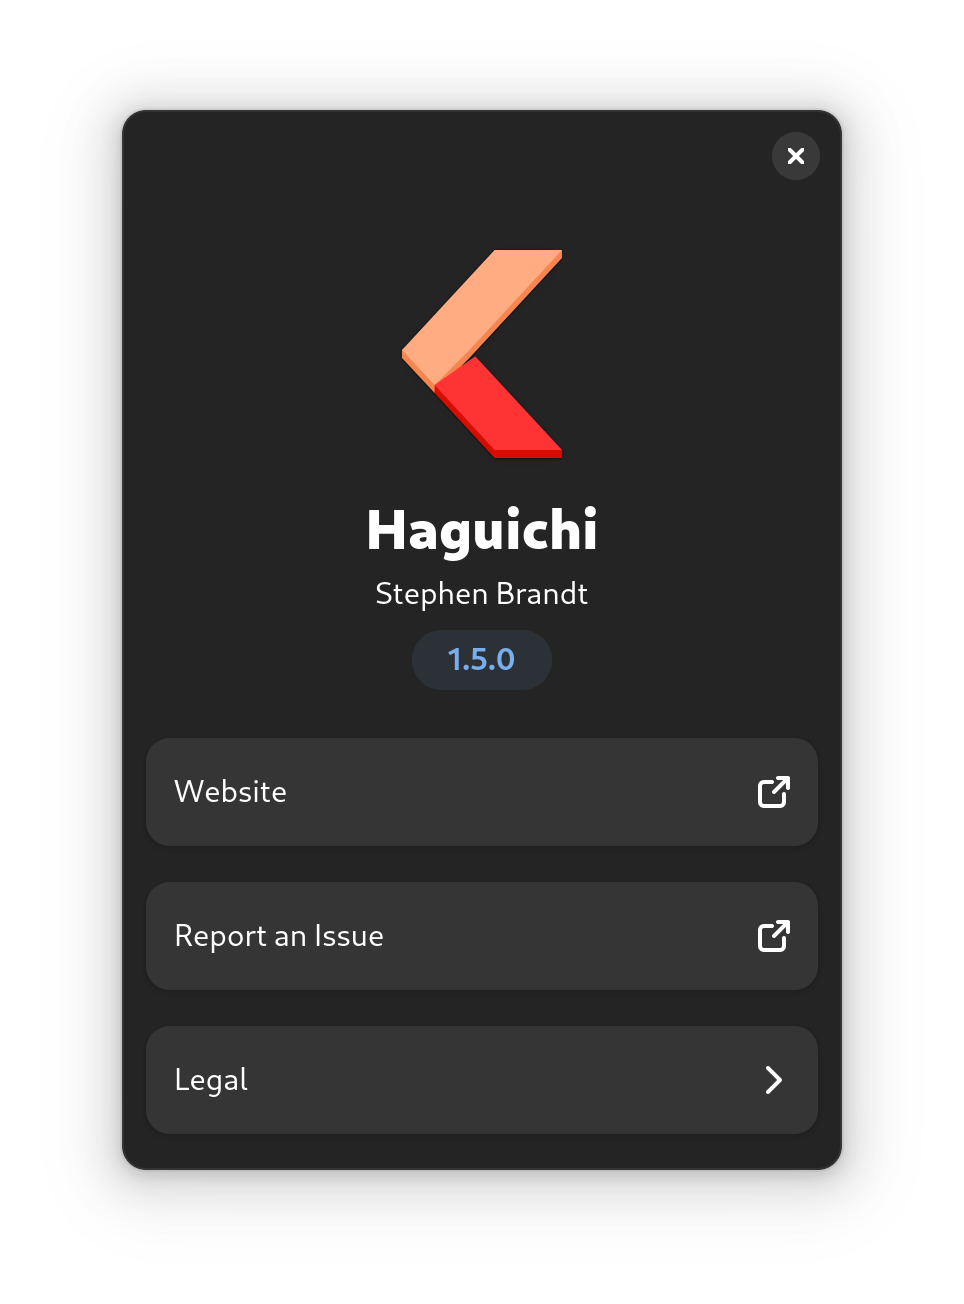
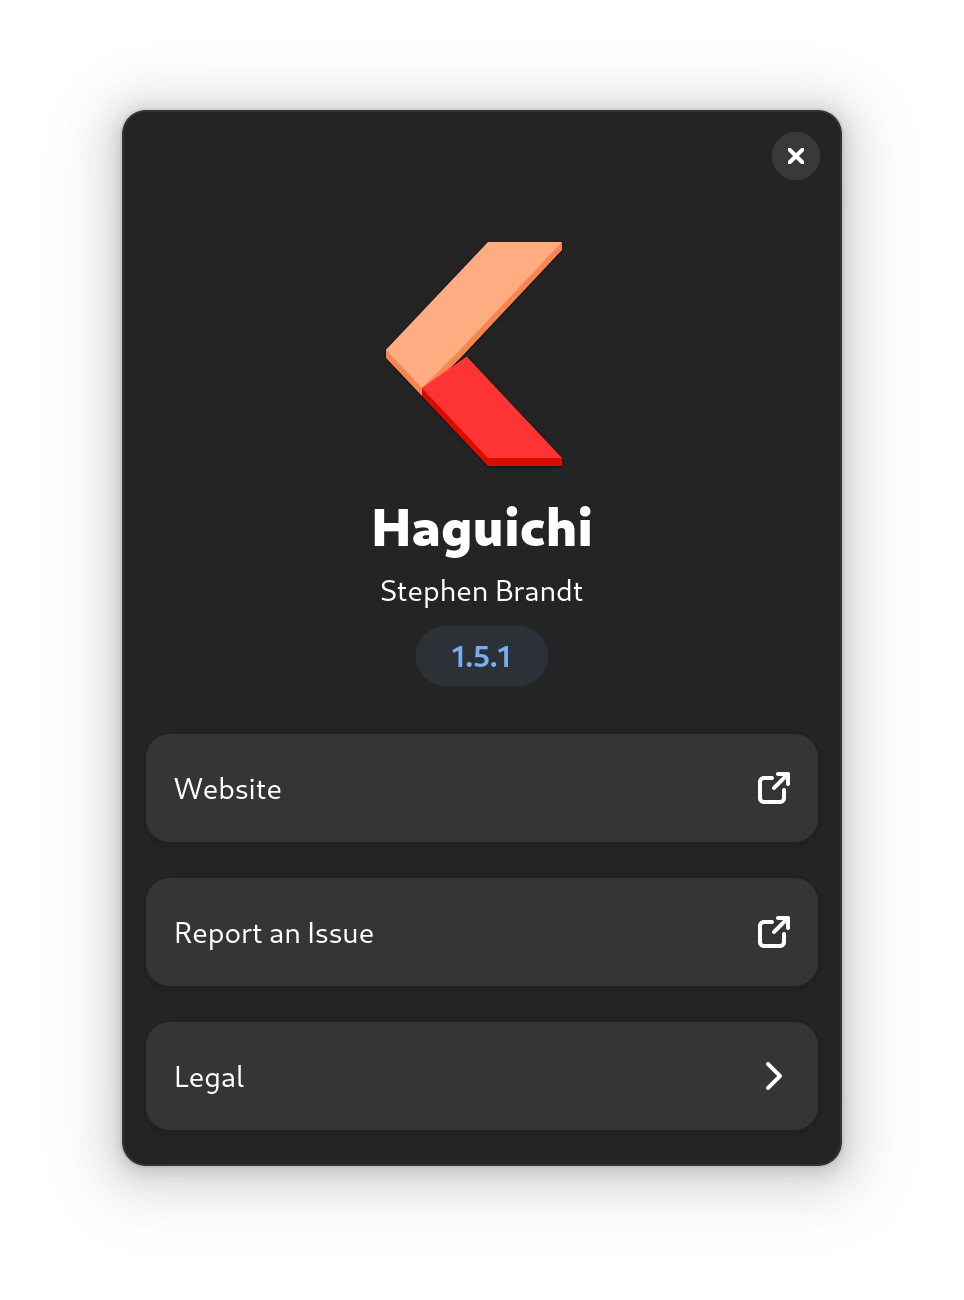
Add release 1.5.1

diff --git a/_posts/2024-12-01-release151.md b/_posts/2024-12-01-release151.md
@@ -1,0 +1,20 @@
+---
+title: Haguichi 1.5.1 Released
+date: 2024-12-01T14:00:00+0100
+author: ztefn
+layout: post
+permalink: /news/release151/
+tags: ['15', bugfix, commands, porting, release, translation]
+---
+Haguichi 1.5.1 has put on its bow tie and is ready to celebrate the holiday season:
+
+* Modernized layout for all input dialogs.
+* Now using <a href="https://gnome.pages.gitlab.gnome.org/libadwaita/doc/main/class.Dialog.html" target="_blank">Adw.Dialog</a> as base for all dialogs when libadwaita 1.6 is available.
+* Now using <a href="https://gnome.pages.gitlab.gnome.org/libadwaita/doc/main/class.Spinner.html" target="_blank">Adw.Spinner</a> instead of <a href="https://docs.gtk.org/gtk4/class.Spinner.html" target="_blank">Gtk.Spinner</a> when libadwaita 1.6 is available.
+* Fixed showing commands menu button if there is only one item present.
+* Added support for <a href="https://devsuite.app/ptyxis/" target="_blank">Ptyxis</a>.
+* Added Finnish translation (thanks to Jiri Grönroos).
+* Updated Indonesian and Russian translation.
+* Other minor fixes and improvements.
+
+{% include slider.html align="center" width="562" height="473" image1_src="/resources/150-edit-command-dialog.png" image1_srcset="/resources/150-edit-command-dialog-2x.png 2x" image1_alt="Edit Command Dialog (Old Layout)" image2_src="/resources/151-edit-command-dialog.png" image2_srcset="/resources/151-edit-command-dialog-2x.png 2x" image2_alt="Edit Command Dialog (New Layout)" caption="Old and new layout for input dialogs." %}

diff --git a/_sections/haguichi.md b/_sections/haguichi.md
@@ -7,7 +7,7 @@ order: 1
 <p>Haguichi is free and open source software licensed under <a href="https://www.gnu.org/licenses/gpl-3.0.html" target="_blank">GPLv3</a>. Written in <a href="https://vala.dev" target="_blank">Vala</a> and using <a href="https://www.gtk.org" target="_blank">GTK</a> as widget toolkit, Haguichi provides a user friendly <abbr title="Graphical user interface">GUI</abbr> to control the <a href="https://vpn.net" target="_blank">Hamachi</a> client on Linux.</p>
 <div class="row">
   <div class="col"><a class="button" href="/download/">Download now</a></div>
-  <div class="col"><a href="/news/release150/">Version 1.5.0 release notes</a></div>
+  <div class="col"><a href="/news/release151/">Version 1.5.1 release notes</a></div>
 </div>
 <div>
   <img src="/resources/teaser.png" srcset="/resources/teaser-2x.png 2x" alt="Main Window" class="aligncenter" width="680" height="240" />

diff --git a/_sections/customizable-commands.md b/_sections/customizable-commands.md
@@ -8,5 +8,5 @@ order: 3
     <p>Haguichi allows you to create your own specialized commands to run on your network peers.</p>
     <p><a class="button" href="/tips-and-tricks/#command-variables">View all variables</a></p>
   </div>
-  <div class="col image"><img src="/resources/edit-command-dialog.png" srcset="/resources/edit-command-dialog-2x.png 2x" alt="Edit Command Dialog" width="562" height="414" /></div>
+  <div class="col image"><img src="/resources/edit-command-dialog.png" srcset="/resources/edit-command-dialog-2x.png 2x" alt="Edit Command Dialog" width="562" height="473" /></div>
 </div>

diff --git a/_downloads/source-tarball.md b/_downloads/source-tarball.md
@@ -2,4 +2,4 @@
 title: Source Tarball
 order: 9
 ---
-To build Haguichi from source download the <a href="https://launchpad.net/haguichi/1.5/1.5.0/+download/haguichi-1.5.0.tar.xz" target="_blank">source tarball</a> and extract it. Open the text file named <b>INSTALL.md</b> and follow the instructions within.
+To build Haguichi from source download the <a href="https://launchpad.net/haguichi/1.5/1.5.1/+download/haguichi-1.5.1.tar.xz" target="_blank">source tarball</a> and extract it. Open the text file named <b>INSTALL.md</b> and follow the instructions within.
